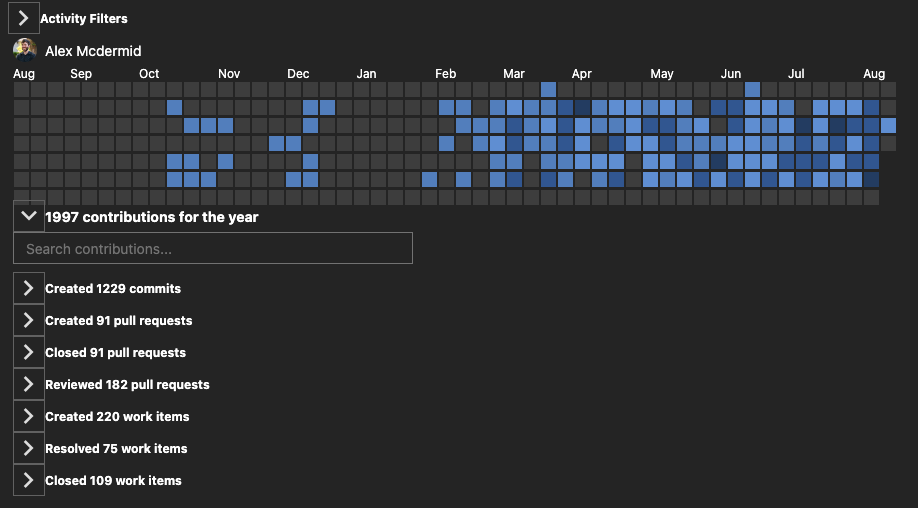
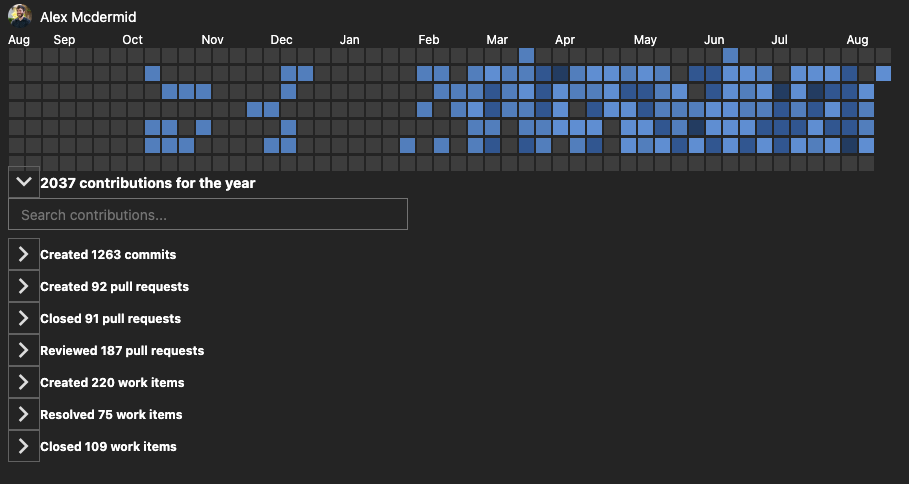
update ado contributions snapshot

Changed region(s): [[0.0, 0.0, 0.9857, 0.9607]]

diff --git a/README.md b/README.md
@@ -27,7 +27,7 @@ I work for moments of clarity after solving the last piece of a challenging prob
 ## ADO Contributions
 ![ADO Contributions](https://github.com/alexmcdermid/alexmcdermid/blob/main/ADOContributions.png?raw=true)
 
-Snapshot from Aug 9 2023
+Snapshot from Aug 14 2023
 
 ## Contact
 - [linkedin/alexmcdermid](https://www.linkedin.com/in/alexmcdermid/)
